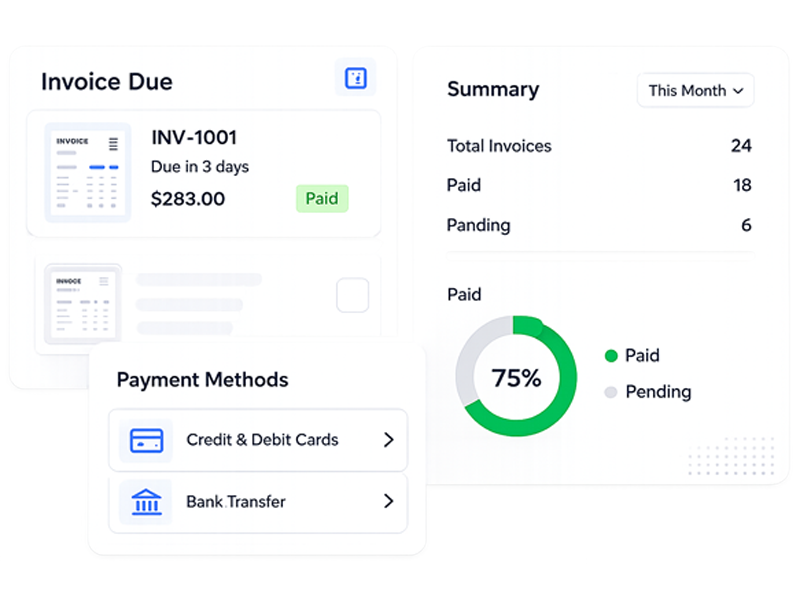
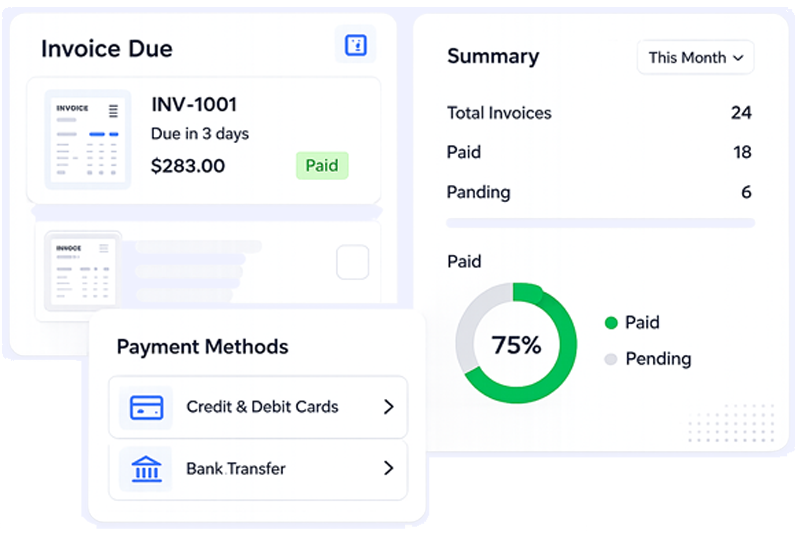
feat: add responsive CSS, global SCSS variables, and new assets for website layout

diff --git a/src/css/scss/global.scss b/src/css/scss/global.scss
@@ -979,7 +979,7 @@ body {
     }
 
     .about-stat-item {
-      padding: 16px 20px;
+      padding: 10px 0px;
 
       /* Remove right border on mobile since it's single column */
       &:nth-child(odd) {

diff --git a/src/css/responsive.css b/src/css/responsive.css
@@ -1451,6 +1451,10 @@
     .trust-strip-item span {
         font-size: 11.5px;
     }
+
+    .about-stats-strip .about-stat-value {
+        font-size: 15px;
+    }
 }
 
 /*Media Screen 568*/
